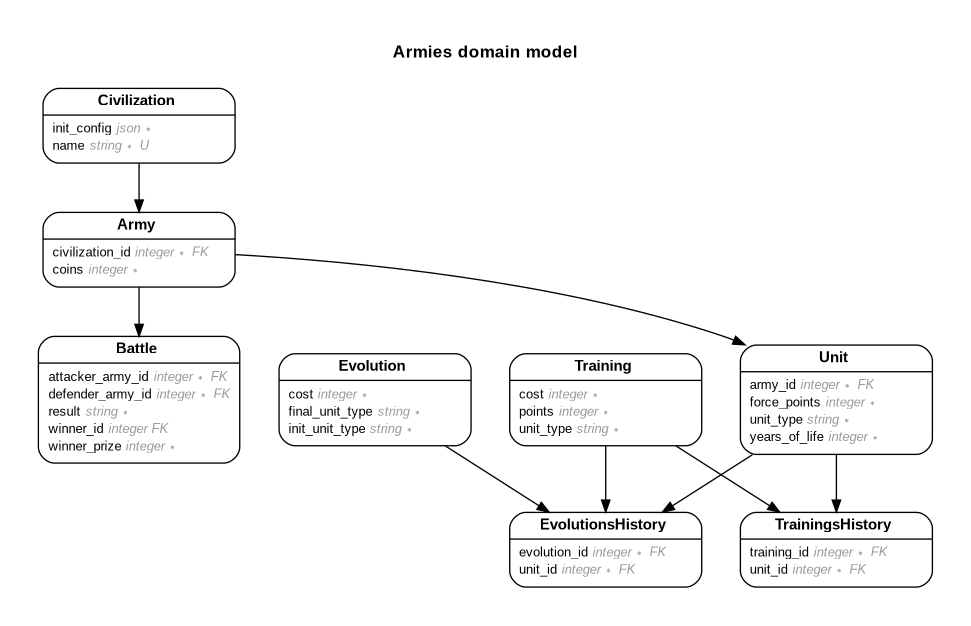
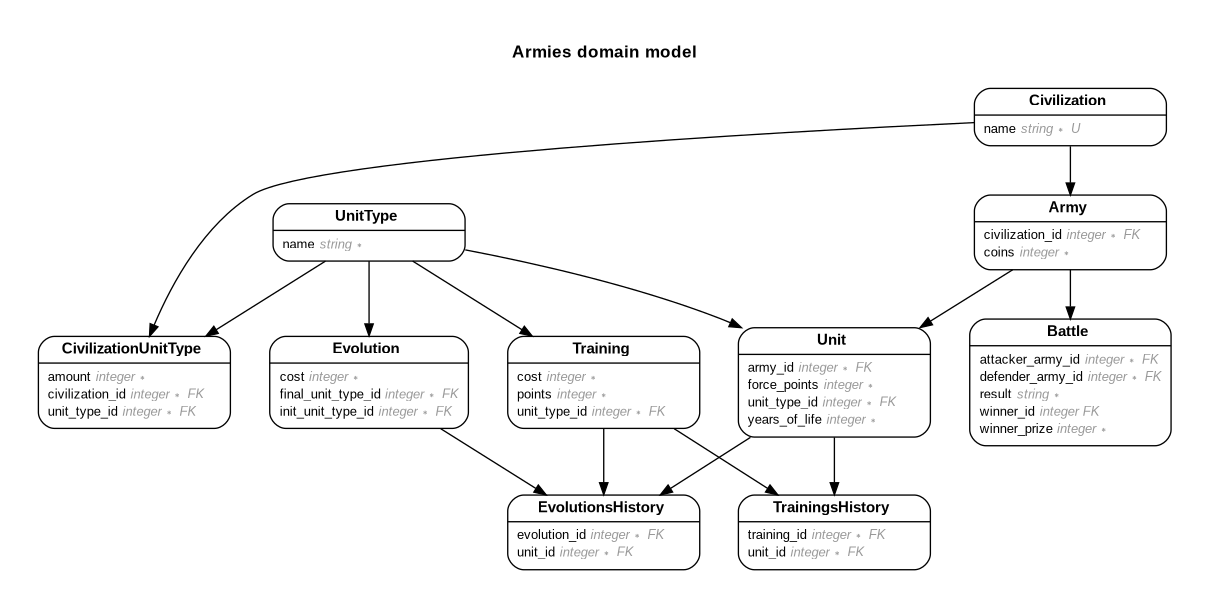
Fix: unit type defined as model

diff --git a/db/schema.rb b/db/schema.rb
@@ -10,7 +10,7 @@
 #
 # It's strongly recommended that you check this file into your version control system.
 
-ActiveRecord::Schema[8.1].define(version: 2025_11_13_140906) do
+ActiveRecord::Schema[8.1].define(version: 2025_11_13_182627) do
   create_table "armies", force: :cascade do |t|
     t.integer "civilization_id", null: false
     t.integer "coins", default: 1000, null: false
@@ -32,9 +32,18 @@ ActiveRecord::Schema[8.1].define(version: 2025_11_13_140906) do
     t.index ["winner_id"], name: "index_battles_on_winner_id"
   end
 
+  create_table "civilization_unit_types", force: :cascade do |t|
+    t.integer "amount", null: false
+    t.integer "civilization_id", null: false
+    t.datetime "created_at", null: false
+    t.integer "unit_type_id", null: false
+    t.datetime "updated_at", null: false
+    t.index ["civilization_id"], name: "index_civilization_unit_types_on_civilization_id"
+    t.index ["unit_type_id"], name: "index_civilization_unit_types_on_unit_type_id"
+  end
+
   create_table "civilizations", force: :cascade do |t|
     t.datetime "created_at", null: false
-    t.json "init_config", null: false
     t.string "name", null: false
     t.datetime "updated_at", null: false
   end
@@ -42,9 +51,11 @@ ActiveRecord::Schema[8.1].define(version: 2025_11_13_140906) do
   create_table "evolutions", force: :cascade do |t|
     t.integer "cost", null: false
     t.datetime "created_at", null: false
-    t.string "final_unit_type", null: false
-    t.string "init_unit_type", null: false
+    t.integer "final_unit_type_id", null: false
+    t.integer "init_unit_type_id", null: false
     t.datetime "updated_at", null: false
+    t.index ["final_unit_type_id"], name: "index_evolutions_on_final_unit_type_id"
+    t.index ["init_unit_type_id"], name: "index_evolutions_on_init_unit_type_id"
   end
 
   create_table "evolutions_histories", force: :cascade do |t|
@@ -60,8 +71,9 @@ ActiveRecord::Schema[8.1].define(version: 2025_11_13_140906) do
     t.integer "cost", null: false
     t.datetime "created_at", null: false
     t.integer "points", null: false
-    t.string "unit_type", null: false
+    t.integer "unit_type_id", null: false
     t.datetime "updated_at", null: false
+    t.index ["unit_type_id"], name: "index_trainings_on_unit_type_id"
   end
 
   create_table "trainings_histories", force: :cascade do |t|
@@ -73,23 +85,36 @@ ActiveRecord::Schema[8.1].define(version: 2025_11_13_140906) do
     t.index ["unit_id"], name: "index_trainings_histories_on_unit_id"
   end
 
+  create_table "unit_types", force: :cascade do |t|
+    t.datetime "created_at", null: false
+    t.string "name", null: false
+    t.datetime "updated_at", null: false
+  end
+
   create_table "units", force: :cascade do |t|
     t.integer "army_id", null: false
     t.datetime "created_at", null: false
     t.integer "force_points", null: false
-    t.string "unit_type", null: false
+    t.integer "unit_type_id", null: false
     t.datetime "updated_at", null: false
     t.integer "years_of_life", null: false
     t.index ["army_id"], name: "index_units_on_army_id"
+    t.index ["unit_type_id"], name: "index_units_on_unit_type_id"
   end
 
   add_foreign_key "armies", "civilizations"
   add_foreign_key "battles", "armies", column: "attacker_army_id"
   add_foreign_key "battles", "armies", column: "defender_army_id"
   add_foreign_key "battles", "armies", column: "winner_id"
+  add_foreign_key "civilization_unit_types", "civilizations"
+  add_foreign_key "civilization_unit_types", "unit_types"
+  add_foreign_key "evolutions", "unit_types", column: "final_unit_type_id"
+  add_foreign_key "evolutions", "unit_types", column: "init_unit_type_id"
   add_foreign_key "evolutions_histories", "evolutions"
   add_foreign_key "evolutions_histories", "units"
+  add_foreign_key "trainings", "unit_types"
   add_foreign_key "trainings_histories", "trainings"
   add_foreign_key "trainings_histories", "units"
   add_foreign_key "units", "armies"
+  add_foreign_key "units", "unit_types"
 end

diff --git a/db/seeds.rb b/db/seeds.rb
@@ -8,9 +8,68 @@
 #     MovieGenre.find_or_create_by!(name: genre_name)
 #   end
 
-[ 'chinese', 'britons', 'byzantines' ].each do |name|
-  Civilization.find_or_create_by!(name:, init_config: { pikeman: 1, archer: 1, knight: 1 })
+[ 'pikeman', 'archer', 'knight' ].each do |name|
+  UnitType.find_or_create_by!(name:)
 end
+
+
+[ 'chinese', 'britons', 'byzantines' ].each do |name|
+  Civilization.find_or_create_by!(name:)
+end
+
+CivilizationUnitType.find_or_create_by!(
+  unit_type: UnitType.find_by!(name: 'pikeman'),
+  civilization: Civilization.find_by!(name: 'chinese'),
+  amount: 2
+)
+
+CivilizationUnitType.find_or_create_by!(
+  unit_type: UnitType.find_by!(name: 'pikeman'),
+  civilization: Civilization.find_by!(name: 'britons'),
+  amount: 10
+)
+
+CivilizationUnitType.find_or_create_by!(
+  unit_type: UnitType.find_by!(name: 'pikeman'),
+  civilization: Civilization.find_by!(name: 'byzantines'),
+  amount: 5
+)
+
+CivilizationUnitType.find_or_create_by!(
+  unit_type: UnitType.find_by!(name: 'archer'),
+  civilization: Civilization.find_by!(name: 'chinese'),
+  amount: 25
+)
+
+CivilizationUnitType.find_or_create_by!(
+  unit_type: UnitType.find_by!(name: 'archer'),
+  civilization: Civilization.find_by!(name: 'britons'),
+  amount: 10
+)
+
+CivilizationUnitType.find_or_create_by!(
+  unit_type: UnitType.find_by!(name: 'archer'),
+  civilization: Civilization.find_by!(name: 'byzantines'),
+  amount: 8
+)
+
+CivilizationUnitType.find_or_create_by!(
+  unit_type: UnitType.find_by!(name: 'knight'),
+  civilization: Civilization.find_by!(name: 'chinese'),
+  amount: 2
+)
+
+CivilizationUnitType.find_or_create_by!(
+  unit_type: UnitType.find_by!(name: 'knight'),
+  civilization: Civilization.find_by!(name: 'britons'),
+  amount: 10
+)
+
+CivilizationUnitType.find_or_create_by!(
+  unit_type: UnitType.find_by!(name: 'knight'),
+  civilization: Civilization.find_by!(name: 'byzantines'),
+  amount: 15
+)
 
 [ 100, 1_000, 10_000 ].each do |coins|
   Civilization.all.each do |civilization|
@@ -19,9 +78,10 @@ end
 end
 
 armies_ids = Army.all.pluck('id')
+unit_types_ids = UnitType.all.pluck('id')
 (0..100).each do |_i|
   Unit.find_or_create_by!(
-    unit_type: Unit::UNIT_TYPES.sample,
+    unit_type_id: unit_types_ids.sample,
     years_of_life: rand(0..100),
     force_points: rand(0..100),
     army_id: armies_ids.sample
@@ -29,32 +89,32 @@ armies_ids = Army.all.pluck('id')
 end
 
 Training.find_or_create_by!(
-  unit_type: 'pikeman',
+  unit_type: UnitType.find_by!(name: 'pikeman'),
   points: 3,
   cost: 10
 )
 
 Training.find_or_create_by!(
-  unit_type: 'archer',
+  unit_type: UnitType.find_by!(name: 'archer'),
   points: 7,
   cost: 20
 )
 
 Training.find_or_create_by!(
-  unit_type: 'knight',
+  unit_type: UnitType.find_by!(name: 'knight'),
   points: 10,
   cost: 30
 )
 
 Evolution.find_or_create_by!(
-  init_unit_type: 'pikeman',
-  final_unit_type: 'archer',
+  init_unit_type: UnitType.find_by!(name: 'pikeman'),
+  final_unit_type: UnitType.find_by!(name: 'archer'),
   cost: 30
 )
 
 Evolution.find_or_create_by!(
-  init_unit_type: 'archer',
-  final_unit_type: 'knight',
+  init_unit_type: UnitType.find_by!(name: 'archer'),
+  final_unit_type: UnitType.find_by!(name: 'knight'),
   cost: 40
 )
 

diff --git a/db/migrate/20251113181952_create_unit_types.rb b/db/migrate/20251113181952_create_unit_types.rb
@@ -1,0 +1,18 @@
+class CreateUnitTypes < ActiveRecord::Migration[8.1]
+  def change
+    create_table :unit_types do |t|
+      t.string :name, null: false
+
+      t.timestamps
+    end
+
+    remove_column :units, :unit_type, :string
+    add_reference :units, :unit_type, null: false, foreign_key: true
+    remove_column :trainings, :unit_type, :string
+    add_reference :trainings, :unit_type, null: false, foreign_key: true
+    remove_column :evolutions, :init_unit_type, :string
+    add_reference :evolutions, :init_unit_type, null: false, foreign_key: { to_table: :unit_types }
+    remove_column :evolutions, :final_unit_type, :string
+    add_reference :evolutions, :final_unit_type, null: false, foreign_key: { to_table: :unit_types }
+  end
+end

diff --git a/config/environments/production.rb b/config/environments/production.rb
@@ -35,10 +35,11 @@ Rails.application.configure do
 
   # Log to STDOUT with the current request id as a default log tag.
   config.log_tags = [ :request_id ]
-  config.logger   = ActiveSupport::TaggedLogging.logger(STDOUT)
+  # config.logger   = ActiveSupport::TaggedLogging.logger(STDOUT)
+  config.logger = Logger.new(STDOUT)
 
   # Change to "debug" to log everything (including potentially personally-identifiable information!).
-  config.log_level = ENV.fetch("RAILS_LOG_LEVEL", "info")
+  config.log_level = :debug # ENV.fetch("RAILS_LOG_LEVEL", "info")
 
   # Prevent health checks from clogging up the logs.
   config.silence_healthcheck_path = "/up"

diff --git a/app/models/training.rb b/app/models/training.rb
@@ -1,11 +1,10 @@
 class Training < ApplicationRecord
   has_many :evolutions_histories
+  belongs_to :unit_type
 
-  validates :unit_type, :points, :cost, presence: true
+  validates :points, :cost, presence: true
 
   # NOTE: can we assume zero-cost/zero-point benefit?
   # validates :points, :cost, numericality: { greater_than_or_equal_to: 0 }
   validates :points, :cost, numericality: { greater_than_or_equal_to: 1 }
-
-  validates :unit_type, inclusion: { in: Unit::UNIT_TYPES }
 end

diff --git a/app/models/army.rb b/app/models/army.rb
@@ -1,6 +1,12 @@
 class Army < ApplicationRecord
   belongs_to :civilization
-  has_many :battles
+  has_many :attacker_battles, class_name: "Battle", foreign_key: "attacker_army_id"
+  has_many :defender_battles, class_name: "Battle", foreign_key: "defender_army_id"
+
+  def battles
+    Battle.where("attacker_army_id = :id OR defender_army_id = :id", id: self.id)
+  end
+
   has_many :units
 
   validates :coins, presence: true, numericality: { greater_or_equal_to: 0 }

diff --git a/app/models/unit.rb b/app/models/unit.rb
@@ -1,10 +1,10 @@
 class Unit < ApplicationRecord
-  UNIT_TYPES = %w[pikeman archer knight].freeze
+  # UNIT_TYPES = %w[pikeman archer knight].freeze
 
   belongs_to :army
+  belongs_to :unit_type
   has_many :evolutions_histories
   has_many :trainings_histories
 
   validates :years_of_life, :force_points, presence: true, numericality: { greater_than_or_equal_to: 0 }
-  validates :unit_type,  presence: true, inclusion: { in: UNIT_TYPES }
 end

diff --git a/config/environments/development.rb b/config/environments/development.rb
@@ -25,6 +25,12 @@ Rails.application.configure do
     config.action_controller.perform_caching = false
   end
 
+  config.logger   = ActiveSupport::TaggedLogging.logger(STDOUT)
+
+  # Change to "debug" to log everything (including potentially personally-identifiable information!).
+  config.log_level = :debug # ENV.fetch("RAILS_LOG_LEVEL", "info")
+
+
   # Change to :null_store to avoid any caching.
   config.cache_store = :memory_store
 

diff --git a/db/migrate/20251113182627_create_civilization_unit_types.rb b/db/migrate/20251113182627_create_civilization_unit_types.rb
@@ -1,0 +1,12 @@
+class CreateCivilizationUnitTypes < ActiveRecord::Migration[8.1]
+  def change
+    create_table :civilization_unit_types do |t|
+      t.references :civilization, null: false, foreign_key: true
+      t.references :unit_type, null: false, foreign_key: true
+      t.integer :amount, null: false
+
+      t.timestamps
+    end
+    remove_column :civilizations, :init_config, :json
+  end
+end

diff --git a/app/models/evolution.rb b/app/models/evolution.rb
@@ -1,7 +1,8 @@
 class Evolution < ApplicationRecord
   has_many :evolutions_histories
 
-  validates :init_unit_type, :final_unit_type, presence: true, inclusion: { in: Unit::UNIT_TYPES }
+  belongs_to :init_unit_type, class_name: "UnitType"
+  belongs_to :final_unit_type, class_name: "UnitType"
 
   validates :cost, presence: true, numericality: { greater_than_or_equal_to: 1 }
 end

diff --git a/app/models/civilization.rb b/app/models/civilization.rb
@@ -1,6 +1,5 @@
 class Civilization < ApplicationRecord
   has_many :armies
 
-  validates :name, :init_config, presence: true
-  validates :name, uniqueness: true
+  validates :name, presence: true, uniqueness: true
 end

diff --git a/app/models/civilization_unit_type.rb b/app/models/civilization_unit_type.rb
@@ -1,0 +1,6 @@
+class CivilizationUnitType < ApplicationRecord
+  belongs_to :unit_type
+  belongs_to :civilization
+
+  validates :amount, presence: true, numericality: { greater_than: 0 }
+end
